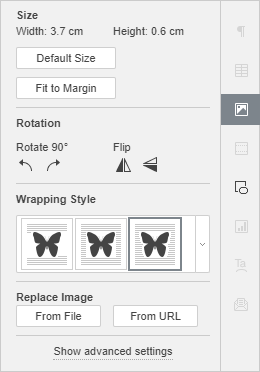
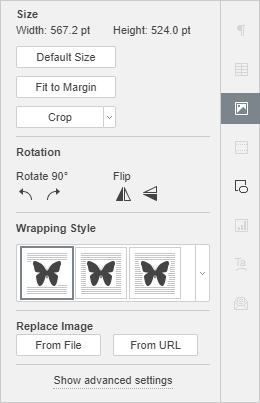
Updated document editors documentation

diff --git a/OfficeWeb/apps/documenteditor/main/resources/help/ru/UsageInstructions/InsertImages.htm b/OfficeWeb/apps/documenteditor/main/resources/help/ru/UsageInstructions/InsertImages.htm
@@ -43,7 +43,21 @@
 			<p><img class="floatleft" alt="Вкладка Параметры изображения" src="../images/right_image.png" />
 			<p>Некоторые параметры изображения можно изменить с помощью вкладки <b>Параметры изображения</b> на правой боковой панели. Чтобы ее активировать, щелкните по изображению и выберите значок <b>Параметры изображения</b> <img alt="Значок Параметры изображения" src="../images/image_settings_icon.png" /> справа. Здесь можно изменить следующие свойства:</p>
 			<ul style="margin-left: 280px;">
-				<li><b>Размер</b> - используется, чтобы просмотреть текущую <b>Ширину</b> и <b>Высоту</b> изображения. При необходимости можно восстановить размер изображения по умолчанию, нажав кнопку <b>По умолчанию</b>. Кнопка <b>Вписать</b> позволяет изменить размер изображения таким образом, чтобы оно занимало все пространство между левым и правым полями страницы.</li>
+				<li><b>Размер</b> - используется, чтобы просмотреть текущую <b>Ширину</b> и <b>Высоту</b> изображения. При необходимости можно восстановить размер изображения по умолчанию, нажав кнопку <b>По умолчанию</b>. Кнопка <b>Вписать</b> позволяет изменить размер изображения таким образом, чтобы оно занимало все пространство между левым и правым полями страницы.
+                    <p>Кнопка <b>Обрезать</b> используется, чтобы обрезать изображение. Нажмите кнопку <b>Обрезать</b>, чтобы активировать маркеры обрезки, которые появятся в углах изображения и в центре каждой его стороны. Вручную перетаскивайте маркеры, чтобы задать область обрезки. Вы можете навести курсор мыши на границу области обрезки, чтобы курсор превратился в значок <img alt="Стрелка" src="../images/arrow.png" />, и перетащить область обрезки. </p>
+                    <ul>
+                        <li>Чтобы обрезать одну сторону, перетащите маркер, расположенный в центре этой стороны.</li>
+                        <li>Чтобы одновременно обрезать две смежных стороны, перетащите один из угловых маркеров.</li>
+                        <li>Чтобы равномерно обрезать две противоположные стороны изображения, удерживайте нажатой клавишу <em>Ctrl</em> при перетаскивании маркера в центре одной из этих сторон. </li>
+                        <li>Чтобы равномерно обрезать все стороны изображения, удерживайте нажатой клавишу <em>Ctrl</em> при перетаскивании любого углового маркера.</li>
+                    </ul>
+                    <p>Когда область обрезки будет задана, еще раз нажмите на кнопку <b>Обрезать</b>, или нажмите на клавишу <em>Esc</em>, или щелкните мышью за пределами области обрезки, чтобы применить изменения.</p>
+                    <p>После того, как область обрезки будет задана, также можно использовать опции <b>Заливка</b> и <b>Вписать</b>, доступные в выпадающем меню <b>Обрезать</b>. Нажмите кнопку <b>Обрезать</b> еще раз и выберите нужную опцию: </p>
+                    <ul>
+                        <li>При выборе опции <b>Заливка</b> центральная часть исходного изображения будет сохранена и использована в качестве заливки выбранной области обрезки, в то время как остальные части изображения будут удалены.</li>
+                        <li>При выборе опции <b>Вписать</b> размер изображения будет изменен, чтобы оно соответствовало высоте или ширине области обрезки. Никакие части исходного изображения не будут удалены, но внутри выбранной области обрезки могут появится пустые пространства.</li>
+                    </ul>
+                </li>
                 <li><b>Поворот</b> - используется, чтобы повернуть изображение на 90 градусов по часовой стрелке или против часовой стрелки, а также чтобы отразить изображение слева направо или сверху вниз. Нажмите на одну из кнопок:
                     <ul>
                         <li><img alt="Значок Повернуть против часовой стрелки" src="../images/rotatecounterclockwise.png" /> чтобы повернуть изображение на 90 градусов против часовой стрелки</li>
@@ -62,6 +76,7 @@
 				<li><b>Выравнивание</b> - используется, чтобы выровнять изображение по левому краю, по центру, по правому краю, по верхнему краю, по середине, по нижнему краю. Подробнее о выравнивании объектов рассказывается на <a href="../UsageInstructions/AlignArrangeObjects.htm" onclick="onhyperlinkclick(this)">этой странице</a>.</li>
 				<li><b>Стиль обтекания</b> - используется, чтобы выбрать один из доступных стилей обтекания текстом - в тексте, вокруг рамки, по контуру, сквозное, сверху и снизу, перед текстом, за текстом - или для изменения границы обтекания. Опция <b>Изменить границу обтекания</b> доступна только в том случае, если выбран стиль обтекания, отличный от стиля "В тексте". Чтобы произвольно изменить границу, перетаскивайте точки границы обтекания. Чтобы создать новую точку границы обтекания, щелкните в любом месте на красной линии и перетащите ее в нужную позицию. <img alt="Изменение границы обтекания" src="../images/wrap_boundary.png" /></li>
                 <li><b>Поворот</b> - используется, чтобы повернуть изображение на 90 градусов по часовой стрелке или против часовой стрелки, а также чтобы отразить изображение слева направо или сверху вниз.</li>
+                <li><b>Обрезать</b> - используется, чтобы применить один из вариантов обрезки: <b>Обрезать</b>, <b>Заливка</b> или <b>Вписать</b>. Выберите из подменю пункт <b>Обрезать</b>, затем перетащите маркеры обрезки, чтобы задать область обрезки, и нажмите на одну из этих трех опций в подменю еще раз, чтобы применить изменения.</li>
                 <li><b>Размер по умолчанию</b> - используется для смены текущего размера изображения на размер по умолчанию.</li>
                 <li><b>Заменить изображение</b> - используется, чтобы заменить текущее изображение, загрузив другое <b>Из файла</b> или <b>По URL</b>.</li>
 				<li><b>Дополнительные параметры изображения</b> - используется для вызова окна 'Изображение - дополнительные параметры'.</li>

diff --git a/OfficeWeb/apps/presentationeditor/main/resources/help/ru/UsageInstructions/InsertImages.htm b/OfficeWeb/apps/presentationeditor/main/resources/help/ru/UsageInstructions/InsertImages.htm
@@ -34,7 +34,20 @@
 			<p>Правая боковая панель активируется при щелчке по изображению левой кнопкой мыши и выборе значка <b>Параметры изображения</b> <img alt="Значок Параметры изображения" src="../images/image_settings_icon.png" /> справа. Вкладка содержит следующие разделы:</p>
             <img alt="Вкладка Параметры изображения" src="../images/imagesettingstab.png" />
             <p><b>Размер</b> - используется, чтобы просмотреть текущую <b>Ширину</b> и <b>Высоту</b> изображения или при необходимости восстановить размер изображения <b>По умолчанию</b>.</p>
-			<p><b>Заменить изображение</b> - используется, чтобы загрузить другое изображение вместо текущего, выбрав нужный источник. Можно выбрать одну из опций: <b>Из файла</b> или <b>По URL</b>. Опция <b>Заменить изображение</b> также доступна в контекстном меню, вызываемом правой кнопкой мыши.</p>
+            <p>Кнопка <b>Обрезать</b> используется, чтобы обрезать изображение. Нажмите кнопку <b>Обрезать</b>, чтобы активировать маркеры обрезки, которые появятся в углах изображения и в центре каждой его стороны. Вручную перетаскивайте маркеры, чтобы задать область обрезки. Вы можете навести курсор мыши на границу области обрезки, чтобы курсор превратился в значок <img alt="Стрелка" src="../images/arrow.png" />, и перетащить область обрезки. </p>
+            <ul>
+                <li>Чтобы обрезать одну сторону, перетащите маркер, расположенный в центре этой стороны.</li>
+                <li>Чтобы одновременно обрезать две смежных стороны, перетащите один из угловых маркеров.</li>
+                <li>Чтобы равномерно обрезать две противоположные стороны изображения, удерживайте нажатой клавишу <em>Ctrl</em> при перетаскивании маркера в центре одной из этих сторон. </li>
+                <li>Чтобы равномерно обрезать все стороны изображения, удерживайте нажатой клавишу <em>Ctrl</em> при перетаскивании любого углового маркера.</li>
+            </ul>
+            <p>Когда область обрезки будет задана, еще раз нажмите на кнопку <b>Обрезать</b>, или нажмите на клавишу <em>Esc</em>, или щелкните мышью за пределами области обрезки, чтобы применить изменения.</p>
+            <p>После того, как область обрезки будет задана, также можно использовать опции <b>Заливка</b> и <b>Вписать</b>, доступные в выпадающем меню <b>Обрезать</b>. Нажмите кнопку <b>Обрезать</b> еще раз и выберите нужную опцию: </p>
+            <ul>
+                <li>При выборе опции <b>Заливка</b> центральная часть исходного изображения будет сохранена и использована в качестве заливки выбранной области обрезки, в то время как остальные части изображения будут удалены.</li>
+                <li>При выборе опции <b>Вписать</b> размер изображения будет изменен, чтобы оно соответствовало высоте или ширине области обрезки. Никакие части исходного изображения не будут удалены, но внутри выбранной области обрезки могут появится пустые пространства.</li>
+            </ul>
+            <p><b>Заменить изображение</b> - используется, чтобы загрузить другое изображение вместо текущего, выбрав нужный источник. Можно выбрать одну из опций: <b>Из файла</b> или <b>По URL</b>. Опция <b>Заменить изображение</b> также доступна в контекстном меню, вызываемом правой кнопкой мыши.</p>
             <p><b>Поворот</b> - используется, чтобы повернуть изображение на 90 градусов по часовой стрелке или против часовой стрелки, а также чтобы отразить изображение слева направо или сверху вниз. Нажмите на одну из кнопок:</p>
             <ul>
                 <li><img alt="Значок Повернуть против часовой стрелки" src="../images/rotatecounterclockwise.png" /> чтобы повернуть изображение на 90 градусов против часовой стрелки</li>

diff --git a/OfficeWeb/apps/documenteditor/main/resources/help/en/UsageInstructions/InsertImages.htm b/OfficeWeb/apps/documenteditor/main/resources/help/en/UsageInstructions/InsertImages.htm
@@ -42,8 +42,22 @@
             <h3>Adjust image settings</h3>
 			<p><img class="floatleft" alt="Image Settings tab" src="../images/right_image.png" />Some of the image settings can be altered using the <b>Image settings</b> tab of the right sidebar. To activate it click the image and choose the <b>Image settings</b> <img alt="Image settings icon" src="../images/image_settings_icon.png" /> icon on the right. Here you can change the following properties:</p>
 			<ul style="margin-left: 280px;">
-				<li><b>Size</b> is used to view the current image <b>Width</b> and <b>Height</b>. If necessary, you can restore the default image size clicking the <b>Default Size</b> button. The <b>Fit to Margin</b> button allows to resize the image, so that it occupies all the space between the left and right page margin.</li>
-				<li><b>Rotation</b> is used to rotate the image by 90 degrees clockwise or counterclockwise as well as to flip the image horizontally or vertically. Click one of the buttons:
+				<li><b>Size</b> is used to view the current image <b>Width</b> and <b>Height</b>. If necessary, you can restore the default image size clicking the <b>Default Size</b> button. The <b>Fit to Margin</b> button allows to resize the image, so that it occupies all the space between the left and right page margin.
+                <p>The <b>Crop</b> button is used to crop the image. Click the <b>Crop</b> button to activate cropping handles which appear on the image corners and in the center of each its side. Manually drag the handles to set the cropping area. You can move the mouse cursor over the cropping area border so that it turns into the <img alt="Arrow" src="../images/arrow.png" /> icon and drag the area. </p>
+                <ul>
+                    <li>To crop a single side, drag the handle located in the center of this side.</li>
+                    <li>To simultaneously crop two adjacent sides, drag one of the corner handles.</li>
+                    <li>To equally crop two opposite sides of the image, hold down the <em>Ctrl</em> key when dragging the handle in the center of one of these sides. </li>
+                    <li>To equally crop all sides of the image, hold down the <em>Ctrl</em> key when dragging any of the corner handles.</li>
+                </ul>    
+                    <p>When the cropping area is specified, click the <b>Crop</b> button once again, or press the <em>Esc</em> key, or click anywhere outside of the cropping area to apply the changes.</p>
+                    <p>After the cropping area is selected, it's also possible to use the <b>Fill</b> and <b>Fit</b> options available from the <b>Crop</b> drop-down menu. Click the <b>Crop</b> button once again and select the option you need: </p>
+                <ul>
+                    <li>If you select the <b>Fill</b> option, the central part of the original image will be preserved and used to fill the selected cropping area, while other parts of the image will be removed.</li>
+                    <li>If you select the <b>Fit</b> option, the image will be resized so that it fits the cropping area height or width. No parts of the original image will be removed, but empty spaces may appear within the selected cropping area.</li>
+                </ul>
+                </li>				
+                <li><b>Rotation</b> is used to rotate the image by 90 degrees clockwise or counterclockwise as well as to flip the image horizontally or vertically. Click one of the buttons:
                     <ul>
                         <li><img alt="Rotate counterclockwise icon" src="../images/rotatecounterclockwise.png" /> to rotate the image by 90 degrees counterclockwise</li>
                         <li><img alt="Rotate clockwise icon" src="../images/rotateclockwise.png" /> to rotate the image by 90 degrees clockwise</li>
@@ -61,6 +75,7 @@
 				<li><b>Align</b> is used to align the image left, center, right, top, middle, bottom. To learn more on how to align objects you can refer to <a href="../UsageInstructions/AlignArrangeObjects.htm" onclick="onhyperlinkclick(this)">this page</a>.</li>
 				<li><b>Wrapping Style</b> is used to select a text wrapping style from the available ones - inline, square, tight, through, top and bottom, in front, behind - or edit the wrap boundary. The <b>Edit Wrap Boundary</b> option is available only if you select a wrapping style other than Inline. Drag wrap points to customize the boundary. To create a new wrap point, click anywhere on the red line and drag it to the necessary position. <img alt="Editing Wrap Boundary" src="../images/wrap_boundary.png" /></li>
 				<li><b>Rotate</b> is used to rotate the image by 90 degrees clockwise or counterclockwise as well as to flip the image horizontally or vertically.</li>
+                <li><b>Crop</b> is used to apply one of the cropping options: <b>Crop</b>, <b>Fill</b> or <b>Fit</b>. Select the <b>Crop</b> option from the submenu, then drag the cropping handles to set the cropping area, and click one of these three options from the submenu once again to apply the changes.</li>
                 <li><b>Default Size</b> is used to change the current image size to the default one.</li>
                 <li><b>Replace image</b> is used to replace the current image loading another one <b>From File</b> or <b>From URL</b>.</li>
 				<li><b>Image Advanced Settings</b> is used to open the 'Image - Advanced Settings' window.</li>

diff --git a/OfficeWeb/apps/spreadsheeteditor/main/resources/help/ru/UsageInstructions/InsertImages.htm b/OfficeWeb/apps/spreadsheeteditor/main/resources/help/ru/UsageInstructions/InsertImages.htm
@@ -41,6 +41,20 @@
                 </li>
                 <li>в разделе <b>Размер</b> задайте нужные значения <b>Ширины</b> и <b>Высоты</b>. Если нажата кнопка <b>Сохранять пропорции</b> <img alt="Кнопка Сохранять пропорции" src="../images/constantproportions.png" /> (в этом случае она выглядит так: <img alt="Кнопка Сохранять пропорции нажата" src="../images/constantproportionsactivated.png" />), ширина и высота будут изменены пропорционально, сохраняя исходное соотношение сторон изображения. Чтобы восстановить размер по умолчанию добавленного изображения, нажмите кнопку <b>По умолчанию</b>.</li>
             </ol>
+            <p>Для того, чтобы обрезать изображение:</p>
+            <p>Кнопка <b>Обрезать</b> используется, чтобы обрезать изображение. Нажмите кнопку <b>Обрезать</b>, чтобы активировать маркеры обрезки, которые появятся в углах изображения и в центре каждой его стороны. Вручную перетаскивайте маркеры, чтобы задать область обрезки. Вы можете навести курсор мыши на границу области обрезки, чтобы курсор превратился в значок <img alt="Стрелка" src="../images/arrow.png" />, и перетащить область обрезки. </p>
+            <ul>
+                <li>Чтобы обрезать одну сторону, перетащите маркер, расположенный в центре этой стороны.</li>
+                <li>Чтобы одновременно обрезать две смежных стороны, перетащите один из угловых маркеров.</li>
+                <li>Чтобы равномерно обрезать две противоположные стороны изображения, удерживайте нажатой клавишу <em>Ctrl</em> при перетаскивании маркера в центре одной из этих сторон. </li>
+                <li>Чтобы равномерно обрезать все стороны изображения, удерживайте нажатой клавишу <em>Ctrl</em> при перетаскивании любого углового маркера.</li>
+            </ul>
+            <p>Когда область обрезки будет задана, еще раз нажмите на кнопку <b>Обрезать</b>, или нажмите на клавишу <em>Esc</em>, или щелкните мышью за пределами области обрезки, чтобы применить изменения.</p>
+            <p>После того, как область обрезки будет задана, также можно использовать опции <b>Заливка</b> и <b>Вписать</b>, доступные в выпадающем меню <b>Обрезать</b>. Нажмите кнопку <b>Обрезать</b> еще раз и выберите нужную опцию: </p>
+            <ul>
+                <li>При выборе опции <b>Заливка</b> центральная часть исходного изображения будет сохранена и использована в качестве заливки выбранной области обрезки, в то время как остальные части изображения будут удалены.</li>
+                <li>При выборе опции <b>Вписать</b> размер изображения будет изменен, чтобы оно соответствовало высоте или ширине области обрезки. Никакие части исходного изображения не будут удалены, но внутри выбранной области обрезки могут появится пустые пространства.</li>
+            </ul>
             <p>Для того, чтобы повернуть изображение:</p>
             <ol>
                 <li>выделите мышью изображение, которое требуется повернуть,</li>

diff --git a/OfficeWeb/apps/presentationeditor/main/resources/help/en/UsageInstructions/InsertImages.htm b/OfficeWeb/apps/presentationeditor/main/resources/help/en/UsageInstructions/InsertImages.htm
@@ -34,7 +34,21 @@
 			<p>The right sidebar is activated when you left-click an image and choose the <b>Image settings</b> <img alt="Image settings icon" src="../images/image_settings_icon.png" /> icon on the right. It contains the following sections:</p>
             <img alt="Image Settings tab" src="../images/imagesettingstab.png" />
             <p><b>Size</b> - is used to view the current image <b>Width</b> and <b>Height</b> or restore the image <b>Default Size</b> if necessary.</p>
-			<p><b>Replace Image</b> - is used to load another image instead of the current one selecting the desired source. You can select one of the options: <b>From File</b> or <b>From URL</b>. The <b>Replace image</b> option is also available in the right-click menu.</p>
+			
+            <p>The <b>Crop</b> button is used to crop the image. Click the <b>Crop</b> button to activate cropping handles which appear on the image corners and in the center of each its side. Manually drag the handles to set the cropping area. You can move the mouse cursor over the cropping area border so that it turns into the <img alt="Arrow" src="../images/arrow.png" /> icon and drag the area. </p>
+            <ul>
+                <li>To crop a single side, drag the handle located in the center of this side.</li>
+                <li>To simultaneously crop two adjacent sides, drag one of the corner handles.</li>
+                <li>To equally crop two opposite sides of the image, hold down the <em>Ctrl</em> key when dragging the handle in the center of one of these sides. </li>
+                <li>To equally crop all sides of the image, hold down the <em>Ctrl</em> key when dragging any of the corner handles.</li>
+            </ul>
+            <p>When the cropping area is specified, click the <b>Crop</b> button once again, or press the <em>Esc</em> key, or click anywhere outside of the cropping area to apply the changes.</p>
+            <p>After the cropping area is selected, it's also possible to use the <b>Fill</b> and <b>Fit</b> options available from the <b>Crop</b> drop-down menu. Click the <b>Crop</b> button once again and select the option you need: </p>
+            <ul>
+                <li>If you select the <b>Fill</b> option, the central part of the original image will be preserved and used to fill the selected cropping area, while other parts of the image will be removed.</li>
+                <li>If you select the <b>Fit</b> option, the image will be resized so that it fits the cropping area height or width. No parts of the original image will be removed, but empty spaces may appear within the selected cropping area.</li>
+            </ul>
+            <p><b>Replace Image</b> - is used to load another image instead of the current one selecting the desired source. You can select one of the options: <b>From File</b> or <b>From URL</b>. The <b>Replace image</b> option is also available in the right-click menu.</p>
             <p><b>Rotation</b> is used to rotate the image by 90 degrees clockwise or counterclockwise as well as to flip the image horizontally or vertically. Click one of the buttons:</p>
             <ul>
                 <li><img alt="Rotate counterclockwise icon" src="../images/rotatecounterclockwise.png" /> to rotate the image by 90 degrees counterclockwise</li>

diff --git a/OfficeWeb/apps/spreadsheeteditor/main/resources/help/en/UsageInstructions/InsertImages.htm b/OfficeWeb/apps/spreadsheeteditor/main/resources/help/en/UsageInstructions/InsertImages.htm
@@ -41,6 +41,20 @@
                 </li>
                 <li>in the <b>Size</b> section, set the necessary <b>Width</b> and <b>Height</b> values. If the <b>Constant proportions</b> <img alt="Constant proportions icon" src="../images/constantproportions.png" /> button is clicked (in this case it looks like this <img alt="Constant proportions icon activated" src="../images/constantproportionsactivated.png" />), the width and height will be changed together preserving the original image aspect ratio. To restore the default size of the added image, click the <b>Default Size</b> button.</li>
             </ol>
+            <p>To crop the image:</p>
+            <p>Click the <b>Crop</b> button to activate cropping handles which appear on the image corners and in the center of each its side. Manually drag the handles to set the cropping area. You can move the mouse cursor over the cropping area border so that it turns into the <img alt="Arrow" src="../images/arrow.png" /> icon and drag the area. </p>
+            <ul>
+                <li>To crop a single side, drag the handle located in the center of this side.</li>
+                <li>To simultaneously crop two adjacent sides, drag one of the corner handles.</li>
+                <li>To equally crop two opposite sides of the image, hold down the <em>Ctrl</em> key when dragging the handle in the center of one of these sides. </li>
+                <li>To equally crop all sides of the image, hold down the <em>Ctrl</em> key when dragging any of the corner handles.</li>
+            </ul>
+            <p>When the cropping area is specified, click the <b>Crop</b> button once again, or press the <em>Esc</em> key, or click anywhere outside of the cropping area to apply the changes.</p>
+            <p>After the cropping area is selected, it's also possible to use the <b>Fill</b> and <b>Fit</b> options available from the <b>Crop</b> drop-down menu. Click the <b>Crop</b> button once again and select the option you need: </p>
+            <ul>
+                <li>If you select the <b>Fill</b> option, the central part of the original image will be preserved and used to fill the selected cropping area, while other parts of the image will be removed.</li>
+                <li>If you select the <b>Fit</b> option, the image will be resized so that it fits the cropping area height or width. No parts of the original image will be removed, but empty spaces may appear within the selected cropping area.</li>
+            </ul>
             <p>To rotate the image:</p>
             <ol>
                 <li>select the image you wish to rotate with the mouse,</li>
